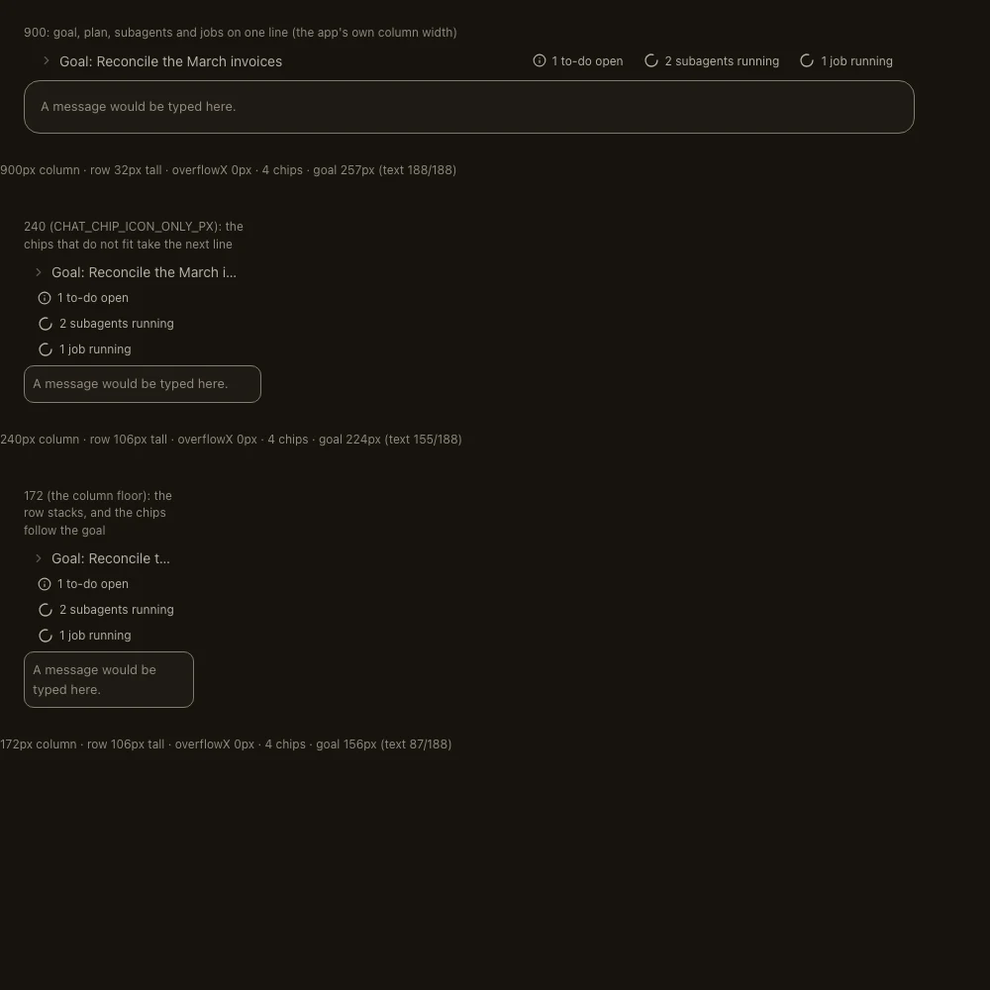
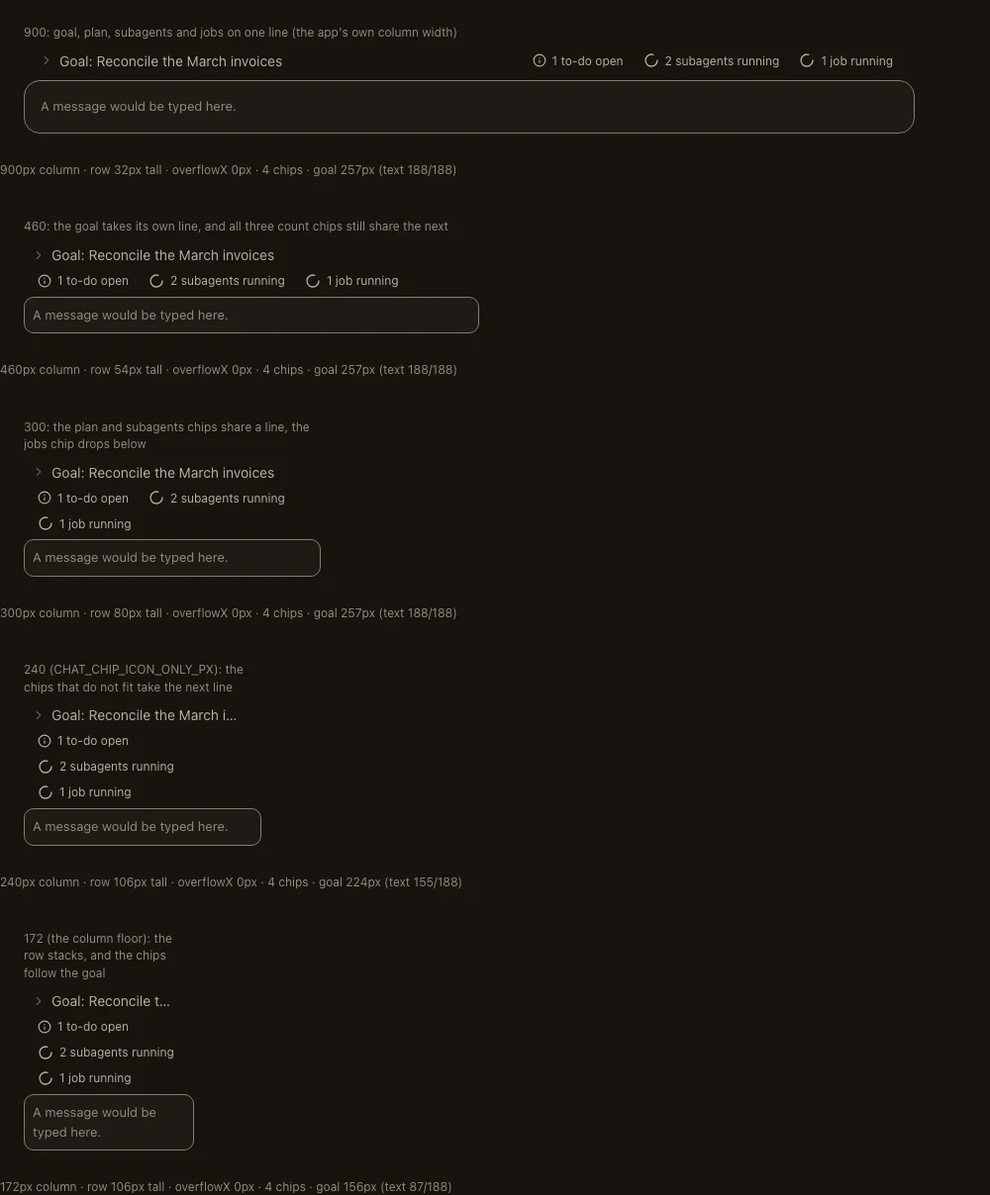
fix(composer): state the open total with the family's word when the set is mixed
Round 2's remediation from the design stream (agent review round 2's D6, plus its
two record nits).

- D6 (MAJOR): the chip took its COUNT over every open row and its WORD from the
  busiest one, so a fan-out above the fifteen-job pool - the ordinary shape of a
  large delegation, `DEFAULT_MAX_RUNNING_JOBS = 15` in `harness/jobs.py` - read
  `40 subagents running` while the pane's own tally two inches away read
  `15 running · 25 queued · 17 interrupted · 5 done`: one word, two numbers, for
  the same rows, on the app's most-read status line, and the only sentence a screen
  reader got (the mark is `aria-hidden`). The count stays whole; the WORD is now the
  state's only when the set is UNIFORM, and the family's when it is mixed:
  `activityTally` derives `markCount` (the open rows in the mark's own state) with
  `count` and `mark`, `tallyWord` picks `open` unless every open row shares the
  mark's state, and `busiestClause` puts the busiest state where length costs
  nothing - the chip's accessible name and the tooltip: `40 subagents open`,
  `Open the subagents in run details — 40 subagents open, 15 running`. The mixed
  string is NARROWER than the state word it replaces, so the row pays nothing for
  it. Both clauses inherit it, so the jobs chip follows the same rule.
- D6's evidence: the story set gains `activity-mixed/` - the fan-out QA measured
  live, the same rule through the jobs list, and a uniform set as the CONTROL - with
[…]

diff --git a/src/renderer/src/features/chat/components/run-details/run-detail-model.ts b/src/renderer/src/features/chat/components/run-details/run-detail-model.ts
@@ -744,6 +744,22 @@ export function activityMark(
 export type ActivityTally = {
 	count: number;
 	mark: OpenChildStatus;
+	/**
+	 * How many of the open rows are in `mark`'s own state.
+	 *
+	 * Carried because `count` alone cannot say whether the set is UNIFORM, and the
+	 * sentence needs to: `mark` is the busiest state (`activityMark`'s ladder), so
+	 * with `DEFAULT_MAX_RUNNING_JOBS = 15` (`harness/jobs.py:36`) any fan-out above
+	 * fifteen children spends most of its life with rows parked behind the running
+	 * ones, and a clause that puts the busiest state's word beside the OPEN total
+	 * then claims work that is not happening (design round 2, D6: the chip read
+	 * `40 subagents running` while the pane two inches away read `15 running ·
+	 * 25 queued · 17 interrupted · 5 done`).
+	 *
+	 * `markCount === count` is the uniform case and the only one that may use the
+	 * state word; `markCount < count` is the mixed case, whose word is the family's.
+	 */
+	markCount: number;
 };
 
 export function activityTally(
@@ -751,7 +767,12 @@ export function activityTally(
 ): ActivityTally | null {
 	const open = rows.filter(isOpenRow);
 	const mark = activityMark(rows);
-	return mark === null ? null : { count: open.length, mark };
+	if (mark === null) return null;
+	return {
+		count: open.length,
+		mark,
+		markCount: open.filter((row) => row.status === mark).length,
+	};
 }
 
 /* ------------------------------------------------------------------ */
@@ -2669,8 +2690,37 @@ const stateWord = (state: OpenChildStatus): string => CHILD_STATE_WORD[state];
  * It takes the TALLY and not a count (see `activityTally`): the state in the
  * sentence IS the state of the mark, because there is no other way to call it.
  */
+/**
+ * The word a clause uses for the set: the STATE's word when every open row is in
+ * that state, the FAMILY's word when they are not.
+ *
+ * `open` is the model's own vocabulary (`openChildren`, `openJobs`,
+ * `OPEN_CHILD_STATUSES`), and it is the word the plan chip one slot to the left
+ * already teaches (`1 to-do open`). It is true of all three open states by
+ * construction, so the mixed case cannot drift back into a claim the rows deny
+ * (design round 2, D6). It is also NARROWER than the state word it replaces, so it
+ * cannot cost the row a line.
+ */
+const tallyWord = (tally: ActivityTally): string =>
+	tally.markCount === tally.count ? stateWord(tally.mark) : "open";
+
+/**
+ * The busiest state, for the strings that have room for it: the chip's accessible
+ * name and its tooltip, one line above it in the same column.
+ *
+ * The ON-SURFACE text stays the narrow one, and the mark itself is `aria-hidden`
+ * by the roster's contract — so without this the only reading a screen reader gets
+ * of a mixed set would be the family word, which names the count and not the work
+ * that is running. It is the same derivation over the same tally as the clause, so
+ * the two strings cannot state different numbers.
+ */
+export const busiestClause = (tally: ActivityTally): string =>
+	tally.markCount === tally.count
+		? ""
+		: `, ${tally.markCount} ${stateWord(tally.mark)}`;
+
 export const childClause = (tally: ActivityTally): string =>
-	`${plural(tally.count, "subagent")} ${stateWord(tally.mark)}`;
+	`${plural(tally.count, "subagent")} ${tallyWord(tally)}`;
 
 /**
  * The tool-job clause: `1 job running`, `3 jobs running`.
@@ -2689,7 +2739,7 @@ export const childClause = (tally: ActivityTally): string =>
  * avoid. If a future `JobType` can be parked, the clause already says so.
  */
 export const jobClause = (tally: ActivityTally): string =>
-	`${plural(tally.count, "job")} ${stateWord(tally.mark)}`;
+	`${plural(tally.count, "job")} ${tallyWord(tally)}`;
 
 /**
  * The two counts that decide the plan's clause: how much is still open, and how
@@ -2865,7 +2915,7 @@ export function runDetailTriggerLabel(
 	 * Guarded on `openTodos`, so the trigger's name is UNCHANGED by the settled
 	 * spellings above: the trigger answers "is anything asking for something right
 	 * now?" (`hasRunDetails`' own rule, a few hundred lines up), and a settled
-	 * plan is not asking for anything - its outcome is the composer chip's to
+	 * plan is not asking for anything — its outcome is the composer chip's to
 	 * state. Passing the whole `details` is what keeps the two surfaces one
 	 * spelling if that ever changes; keeping the guard is the choice to leave
 	 * this path exactly as it was.

diff --git a/src/renderer/src/features/chat/components/composer-status-row.stories.tsx b/src/renderer/src/features/chat/components/composer-status-row.stories.tsx
@@ -582,6 +582,90 @@ export const ActivityChips: Story = {
 };
 
 /**
+ * A MIXED open set: fifteen children at work and twenty-five parked behind them.
+ *
+ * This is the ORDINARY shape of a large delegation rather than an edge —
+ * `DEFAULT_MAX_RUNNING_JOBS = 15` (`harness/jobs.py:36`) is the pool subagents and
+ * backgrounded shells share — and it is the state design review round 2's D6 was
+ * found in: with the count taken over every open row and the word taken from the
+ * busiest one, the chip read `40 subagents running` while the pane's own tally two
+ * inches away read `15 running · 25 queued · 17 interrupted · 5 done`. The wire
+ * shape here is that snapshot: 15 `running`, 25 `queued`, 17 settled rows of two
+ * kinds (which the gate must NOT count) and 5 children that finished.
+ */
+const FAN_OUT = detailsWith([
+	...Array.from({ length: 15 }, (_, i) =>
+		wireJob(`run-${i}`, "task", "running", `Child ${i}`),
+	),
+	...Array.from({ length: 25 }, (_, i) =>
+		wireJob(`queue-${i}`, "task", "running", `Child ${15 + i}`, true),
+	),
+	...Array.from({ length: 17 }, (_, i) =>
+		wireJob(`stop-${i}`, "task", "interrupted", `Child ${40 + i}`),
+	),
+	...Array.from({ length: 5 }, (_, i) =>
+		wireJob(`done-${i}`, "task", "done", `Child ${57 + i}`),
+	),
+]);
+
+/** The same rule through the jobs list: one parked tool row beside two live ones. */
+const MIXED_JOBS = detailsWith([
+	wireJob("s1", "bash", "running", "bash: sleep 150 ; echo child-done"),
+	wireJob("s2", "bash", "running", "bash: pnpm build"),
+	wireJob("s3", "bash", "running", "bash: pnpm test", true),
+]);
+
+/** The control: a uniform set, where the state word is still the right one. */
+const UNIFORM_QUEUED = detailsWith([
+	...Array.from({ length: 25 }, (_, i) =>
+		wireJob(`queue-${i}`, "task", "running", `Child ${i}`, true),
+	),
+]);
+
+/**
+ * A mixed open set, and the uniform control beside it.
+ *
+ * Design review round 2's D6, in one story: the count is every open row and the
+ * WORD has to survive that, so a mixed set states the family's word
+ * (`40 subagents open`) and a uniform one keeps the state's (`25 subagents
+ * queued`). The busiest state does not vanish — it is in the chip's accessible
+ * name and tooltip, which is the only reading assistive tech gets, because the
+ * mark is `aria-hidden` by the roster's contract.
+ *
+ * Each band prints its own numbers (`RowFacts`), because the claim is about what
+ * that sentence does to the row: the mixed wording is NARROWER than the state word
+ * it replaces (`40 subagents open` against `40 subagents running`), so it cannot
+ * cost the row a line, and the frame is what says so.
+ */
+export const ActivityMixed: Story = {
+	render: () => (
+		<div className={cn("flex flex-col gap-4")}>
+			<RowFacts>
+				<Band
+					label="Forty open, fifteen of them running: the chip states the total with the family's word"
+					frontend={frontend(SHORT_GOAL)}
+					runDetails={FAN_OUT}
+				/>
+			</RowFacts>
+			<RowFacts>
+				<Band
+					label="The same rule on the jobs list: two live tool rows beside a parked one"
+					frontend={frontend(SHORT_GOAL)}
+					runDetails={MIXED_JOBS}
+				/>
+			</RowFacts>
+			<RowFacts>
+				<Band
+					label="The control — a uniform set, where the state word is still the right one"
+					frontend={frontend(SHORT_GOAL)}
+					runDetails={UNIFORM_QUEUED}
+				/>
+			</RowFacts>
+		</div>
+	),
+};
+
+/**
  * The stacked arrangement at the 240px boundary: the row's edges where they
  * actually differ, and where three chips once tore away from the goal.
  *
@@ -655,6 +739,22 @@ export const ActivityWidths: Story = {
 				<Band
 					width={900}
 					label="900: goal, plan, subagents and jobs on one line (the app's own column width)"
+					frontend={frontend(SHORT_GOAL)}
+					runDetails={BOTH_ACTIVITY}
+				/>
+			</RowFacts>
+			<RowFacts>
+				<Band
+					width={460}
+					label="460: the goal takes its own line, and all three count chips still share the next"
+					frontend={frontend(SHORT_GOAL)}
+					runDetails={BOTH_ACTIVITY}
+				/>
+			</RowFacts>
+			<RowFacts>
+				<Band
+					width={300}
+					label="300: the plan and subagents chips share a line, the jobs chip drops below"
 					frontend={frontend(SHORT_GOAL)}
 					runDetails={BOTH_ACTIVITY}
 				/>

diff --git a/src/renderer/src/features/chat/components/composer-status-row.tsx b/src/renderer/src/features/chat/components/composer-status-row.tsx
@@ -75,6 +75,7 @@ import {
 	LABEL_SEAM,
 	type RunDetails,
 	activityTally,
+	busiestClause,
 	childClause,
 	jobClause,
 	todoClause,
@@ -177,6 +178,13 @@ export const goalDisclosureLabel = (goal: string, expanded: boolean): string =>
  * The count is `todoClause`'s spelling, from the same function the header
  * trigger's tooltip uses, so the two surfaces a user reads in one glance cannot
  * state the number two ways.
+ *
+ * It takes the COUNTS rather than the numeral for the reason that function's own
+ * docblock records: the settled copy is not a function of the open count alone,
+ * and a chip reading `All to-dos resolved` while its accessible name announced
+ * `0 to-dos open` is exactly the drift this pattern exists to make
+ * unrepresentable — the label cannot be built from a number this component was
+ * never told whether anything was dropped beside.
  */
 export const planChipLabel = (
 	details: Pick<RunDetails, "openTodos" | "droppedTodos">,
@@ -194,10 +202,10 @@ export const planChipLabel = (
  * neither can state a state the glyph denies (design round 1, D1).
  */
 export const subagentChipLabel = (tally: ActivityTally): string =>
-	`${SUBAGENT_ACTION}${LABEL_SEAM}${childClause(tally)}`;
+	`${SUBAGENT_ACTION}${LABEL_SEAM}${childClause(tally)}${busiestClause(tally)}`;
 
 export const jobChipLabel = (tally: ActivityTally): string =>
-	`${JOB_ACTION}${LABEL_SEAM}${jobClause(tally)}`;
+	`${JOB_ACTION}${LABEL_SEAM}${jobClause(tally)}${busiestClause(tally)}`;
 
 /**
  * Whether the row owes the composer its focus back.
@@ -290,18 +298,21 @@ export const ComposerStatusRow = ({
 	const goal = frontend?.goal?.trim() ?? "";
 	const showGoal = goal.length > 0;
 	/*
-	 * A FINISHED plan still shows: `0 to-dos open` is the honest reading of a
-	 * complete plan, and it keeps the row's height from changing when the last
-	 * item closes.
+	 * A FINISHED plan still shows, in the model's settled spelling
+	 * (`All to-dos resolved`, or `All to-dos closed` where anything was dropped):
+	 * the row's height must not change when the last item closes, and a plan that
+	 * ended is a fact worth keeping on screen. See `todoClause` for why the two
+	 * settled states are two words rather than one.
 	 *
 	 * The gate is the ITEM count and not the phase count, and the difference is a
 	 * real state rather than a hypothetical. `RunDetails.todos` is the PHASE list,
 	 * and the model decodes a phase record with no items to a phase with no items —
 	 * so `todos.length > 0` calls a plan that arrived as one empty named phase a
-	 * plan, and the chip would print `0 to-dos open` for a session that has no
-	 * to-dos at all, which reads as a finished plan. `totalTodos` is the item count
-	 * over the whole wire list: it is zero only when there is genuinely nothing to
-	 * be in the middle of.
+	 * plan, and the chip would state a FINISHED plan over a plan that has no items at
+	 * all (`All to-dos resolved`, `todoClause`'s settled clause, since this follow-up;
+	 * `0 to-dos open` when this gate was first argued, which read as a finished plan
+	 * too). `totalTodos` is the item count over the whole wire list: it is zero only
+	 * when there is genuinely nothing to be in the middle of.
 	 */
 	const showPlan = Boolean(runDetails && runDetails.totalTodos > 0);
 

diff --git a/src/renderer/src/features/chat/components/run-details/index.ts b/src/renderer/src/features/chat/components/run-details/index.ts
@@ -12,6 +12,7 @@ export {
 	acknowledgeMcpWhileShown,
 	acknowledgeWhileOpen,
 	BRIEF_PREVIEW_LINES,
+	busiestClause,
 	childClause,
 	childStateLabel,
 	deriveMcpServers,

diff --git a/docs/evidence/chat-composer-status-row/README.md b/docs/evidence/chat-composer-status-row/README.md
@@ -70,7 +70,8 @@ legible; it contains no controls, and nothing in these frames is a claim about i
 | `expanded/` | The collapsed row above its own expanded form at a 900px column, the second opened by CLICKING the real trigger. The vertical cost is the difference between the two bands; the body's cap is the whole-line ceiling `CAPPED_BLOCK` sets (120px, six lines at `leading-5`), which the frames show ending on a complete line rather than through a seventh line's glyphs. |
 | `column-floor/` | The same pair at a **172px** column — the width the app's chat column actually reaches with the canvas open (QA round 1, measured on the built app; this set was captured at 220px before that correction, which meant it pinned a large-view inset at a width where the product renders the small-view step). The story derives `isSmallView` from its own band width, so the row takes `px-2 pb-1` and the stand-in box `p-2` exactly as the app does. Collapsed, the row stacks with its label visible; expanded, the body takes the row's own width less the primitive's 20px indent. |
 | `activity-chips/` | The two activity chips (`docs/composer-activity-chips.md`), one band per state of the count gate: both lists in flight (four chips), the jobs chip alone at the row's start (no goal, no plan — so the first-chip rule falls to it), a PARKED child (open, so the chip renders, and nothing spins because nothing is running), and settled work, where the rows are still on the wire and **no chip is drawn for them**. Read the last band against the first: that pair is the gate. |
-| `activity-widths/` | The width story, and the only frame that carries its own numbers. Three bands — 900px (the app's column), 240px (`CHAT_CHIP_ICON_ONLY_PX`) and the 172px floor — each MEASURING the row it contains after `document.fonts.ready` and printing `Npx column · row Npx tall · overflowX Npx · N chips` beneath it. Measured at this commit: **900 → 32px tall, overflowX 0, 4 chips; 240 → 106px tall, 0, 4; 172 → 106px tall, 0, 4.** The arrangement is visible in the picture (at 240 and at 172 the goal keeps the line and the three counts share the lines below it as one left-aligned group) and `overflowX 0` at all three is the property, not a hope: the group shrinks and wraps INSIDE the column rather than painting past it. **240 read 80px in round 1 and reads 106px now, which is the wrap fix and not a regression**: the old arrangement put the goal on the first line with ONE count chip pushed to the right margin and the other two on a left column below, so it was 26px shorter and the goal was truncated to `Goal: Rec…`; today the goal has the line to itself (`Goal: Reconcile the March i…`) and the counts are one column under it (`docs/composer-activity-chips.md` § 7, design review round 1, D2). |
+| `activity-mixed/` | **The state no committed frame showed until design review round 2 (D6), and the ordinary one for a large delegation.** Three bands on the shipped row: the fan-out QA measured live (15 children running, 25 parked behind the fifteen-job pool, 17 settled rows the gate must NOT count, 5 finished — 40 open in all), the same rule through the jobs list (two live tool rows beside a parked one), and a uniform set as the control. The chip states the count whole with the FAMILY's word when the set is mixed — **`40 subagents open`**, accessible name `Open the subagents in run details — 40 subagents open, 15 running` — because the state word beside the open total claimed work that was not happening, and the pane's own tally two inches away read `15 running · 25 queued · 17 interrupted · 5 done` (`docs/composer-activity-chips.md` § 2). Band 2 inherits it through `jobClause` (`3 jobs open`, `… — 3 jobs open, 2 running`) and band 3 is the control, unchanged: `25 subagents queued`. Each band prints its own numbers, and the row stays **32px tall with `overflowX 0`** in all three — the mixed wording is narrower than the state word it replaces, so the fix costs the row nothing. |
+| `activity-widths/` | The width story, and the only frame that carries its own numbers. **Five bands** — 900px (the app's column), 460px and 300px (the two steps of the wrap regime, added by design review round 2's N2), 240px (`CHAT_CHIP_ICON_ONLY_PX`) and the 172px floor — each MEASURING the row it contains after `document.fonts.ready` and printing `Npx column · row Npx tall · overflowX Npx · N chips` beneath it. Measured at this commit: **900 → 32px tall, overflowX 0, 4 chips; 460 → 54px, 0, 4; 300 → 80px, 0, 4; 240 → 106px, 0, 4; 172 → 106px, 0, 4.** The three heights of the wrap regime are the point of the two new bands: the row is 54px once the goal takes its own line, 80px while the plan and subagents chips still share one, and 106px from about 265px down, where the 150px subagents chip and the 107px jobs chip stop fitting together. The arrangement is visible in the picture (at 240 and at 172 the goal keeps the line and the three counts share the lines below it as one left-aligned group) and `overflowX 0` at all three is the property, not a hope: the group shrinks and wraps INSIDE the column rather than painting past it. **240 read 80px in round 1 and reads 106px now, which is the wrap fix and not a regression**: the old arrangement put the goal on the first line with ONE count chip pushed to the right margin and the other two on a left column below, so it was 26px shorter and the goal was truncated to `Goal: Rec…`; today the goal has the line to itself (`Goal: Reconcile the March i…`) and the counts are one column under it (`docs/composer-activity-chips.md` § 7, design review round 1, D2). |
 | `activity-stacked/` | The 240px arrangement on its own, with its own numbers, and the two browser states a story cannot set (round 1's D5): `activity-stacked-hovered/` puts a real pointer on the GOAL's trigger and `activity-stacked-chip-hovered/` puts it on the jobs CHIP, which is the pair that shows the row's edge rule — the goal is the row's leading chip and its ground starts at the row's own edge (`-ml-1.5`), where the stacked chips' grounds start at theirs. `activity-stacked-focused/` walks the real `Tab` key to the subagents chip (`{ tabTo }`), so the ring in the frame is a genuine `:focus-visible` rather than a class; its tooltip is open in the picture, which is the state focus actually produces, and it covers part of the goal line above. |
 | `activity-motion-1/`, `activity-motion-2/` | **The spin, photographed at a HELD phase.** The pair is the same story, theme and rig, half a turn apart: `activity-motion-1` holds the shipped `animate-spin` at `0ms` of its own 1s cycle and `activity-motion-2` at `500ms`, through the rig's `{ liveMotion, phaseMs }` tuple, whose hold is now applied — and asserted — **at the shutter**, not when the story's styles are first overridden (before Storybook has mounted anything, a cold server served an empty document and the hold matched nothing). **What the PAGE differs by, measured losslessly:** the same two phases captured at `format: "png"` instead of webp differ in **220 (dark) / 228 (light) pixels, every one of them inside the two marks' boxes (x648-664 and x807-823, y53-67) and none outside**. **What the committed WebP pair differs by:** 7,917 (dark) / 1,850 (light) pixels, of which only **193 / 168 exceed 8/255** and **147 / 148 of those sit in those same two boxes** (the rest are isolated singles on glyph edges); the remaining **7,724 / 1,682** are an achromatic ±1-2/255 field across the row's glyphs, i.e. the lossy ENCODER's own response to a differing input rather than the page — which is exactly why the lossless pair has no field at all. Round 3's M1' is that this row (and the manifest record and the commit message) claimed the whole 7,917/1,850 sat in two 14x14 boxes, which hold 392 pixels between them. **And the pair is re-derivable:** three consecutive captures of all four frames came back byte-identical (`cmp`), and capturing the two tuples at the SAME phase yields two byte-identical frames (AE 0), so the pair carries the phase and nothing else. Round 2's M1 is why any of this is measured: the rule this option once used selected `.animate-spin`, the token the mark does NOT carry (`motion-safe:animate-spin` is), so it matched nothing and the pair was sampled. Read the limits with it: a Storybook fixture rather than a live app, and the encoder's field IS in the committed files — a reader comparing those two byte-wise will see more than the marks. |
 | `activity-chips-reduced-motion/` | The same four states with `prefers-reduced-motion: reduce`. **Say plainly what this frame is and is not**, which is what round 1's D3 asked for: it is NOT a comparison and proves NOTHING about the animation, because the rig injects `animation: none !important` before every shutter, so the animation is off in both frames. **How far the identity goes differs by theme, and round 2's n1 is that this sentence read as a property of the pair:** in dark the two frames ARE byte-identical (md5 `f6553f04140aa3558a41157157356ce2`, 23,094 bytes each), while in light 14,788 pixels differ — every one of them in rows 96-671, i.e. the composer stand-in BELOW the strip, at no more than 14/255 per channel, with rows 40-90 (the chip band this row is about) byte-identical in both themes. What it is worth is the one claim a still of that state can carry: with the reduced-motion media query active the mark renders, lands on a VISIBLE end state (the page's reduced-motion block CAPS durations rather than cancelling anything, so an element must never end invisible) and its shape still distinguishes running from parked. The spin itself is pinned as a class string in `scripts/composer-tabs.test.mjs` and photographed — at a held phase, re-run to byte-identity — in `activity-motion-1/2` above. |

diff --git a/docs/composer-activity-chips.md b/docs/composer-activity-chips.md
@@ -85,6 +85,34 @@ state by construction, so the two cannot drift back apart. The roster's own
 `CHILD_STATE_WORD` supplies the word (`running` / `queued` / `paused`), and
 `todoClause` is untouched — to-dos have one open state.
 
+**...and the WORD depends on whether the set is uniform (design review round 2,
+D6).** The count is every OPEN row and `mark` is the BUSIEST one, so putting the
+mark's word beside the open total claims work that is not happening whenever rows
+are parked behind a running few — and that is the ordinary shape of a large
+delegation, not an edge: `DEFAULT_MAX_RUNNING_JOBS = 15` (`harness/jobs.py:36`,
+the pool subagents and backgrounded shells share) parks everything a fan-out
+cannot run, so QA's live capture read `40 subagents running` on the chip while the
+pane's own tally read `15 running · 25 queued · 17 interrupted · 5 done` on the
+same screen — one word, two numbers, for the same rows, two inches apart. The rule
+now is:
+
+| the open set | the clause (chip's visible text, trigger's tooltip) | the chip's accessible name |
+|---|---|---|
+| uniform — `markCount === count` | `1 subagent running`, `25 subagents queued`: the STATE's word, unchanged | the same string |
+| mixed — `markCount < count` | `40 subagents open`: the FAMILY's word | `… — 40 subagents open, 15 running` |
+
+`open` is the model's own vocabulary (`openChildren`, `openJobs`,
+`OPEN_CHILD_STATUSES`) and the word the plan chip one slot to the left already
+teaches (`1 to-do open`); it is true of all three open states by construction, so
+the mixed case cannot drift back into a claim the rows deny. The busiest state does
+not vanish — it moves to the strings with room for it, because the mark is
+`aria-hidden` and the sentence is otherwise the whole message a screen reader gets.
+The mixed string is also NARROWER than the state word it replaces, so it cannot
+cost the row a line (photographed: `activity-mixed/`, three bands — the fan-out, the
+same rule through the jobs list, and a uniform set as the control). `tally.markCount`
+is derived in the same `activityTally` call as `count` and `mark`, so no reader
+re-derives it and the two strings cannot state different numbers.
+
 **The mark is the roster's, not a new one.** `SubagentStateIcon`
 (`run-detail-row-parts.tsx:74-96`) already encodes the whole contract — one mark
 per state, `motion-safe:animate-spin` for `running` and nothing else, shape as the
@@ -265,13 +293,25 @@ which prints its own numbers into the picture, after `document.fonts.ready`):
 
 | Column | Row height | `overflowX` | Chips |
 |---|---|---|---|
-| 900px | 32px | 0 | 4 |
-| 240px (`CHAT_CHIP_ICON_ONLY_PX`) | 106px | 0 | 4 |
-| 172px (the floor) | 106px | 0 | 4 |
+| 900px | 32px | 0 | 4, one line |
+| 460px | 54px | 0 | 4: goal, then all three |
+| 300px | 80px | 0 | 4: goal / plan + subagents / jobs |
+| 240px (`CHAT_CHIP_ICON_ONLY_PX`) | 106px | 0 | 4: one per line |
+| 172px (the floor) | 106px | 0 | 4: one per line, narrower goal |
 
-At 240px the three count chips take the lines under the goal; at the floor the
-row stacks, the goal first and the chips under it. The heights are the cost, and
-§ 3's gate is what keeps them from being paid on a session with nothing running.
+**Three heights, not two, and the band in between is the one the operator hits.**
+This table printed 900 and 240/172 only until design review round 2 (N2): the group
+packs greedily as the column narrows, so the wrap regime has its own steps — 54px
+once the goal takes its own line, 80px when the jobs chip drops below the plan and
+subagents pair, 106px from about 265px down, where the 150px subagents chip and the
+107px jobs chip stop fitting on one line together. The 460px and 300px bands are
+photographed in `activity-widths/` and print their own numbers, which is where the
+54px and 80px above are read from; the same numbers were measured independently on
+this head with QA round 2's rig extended to those widths, reproducing 900/240/172
+exactly (`32/106/106px`, `overflowX` 0) before adding them. At 240px the three
+count chips take the lines under the goal; at the floor the row stacks, the goal
+first and the chips under it. The heights are the cost, and § 3's gate is what
+keeps them from being paid on a session with nothing running.
 
 **The 240px height is 106px, and this table printed 80px until round 2 (m1).**
 The 80px was the pre-group arrangement's number — the goal sharing line 1 with one
@@ -298,10 +338,26 @@ is what makes the row wrap the WHOLE group under the goal instead of letting the
 two share a squeezed line — and 140px is the width at which the chip still says
 something (its chevron, `Goal:` and padding measure ~75px of fixed ink).
 
-The arrangement is photographed at three widths and in three browser states
-(`activity-widths/`, and `activity-stacked/` at 240px at rest, hovered and
-keyboard-focused, the last two through the rig's own input because `:hover` and
-`:focus-visible` are browser state a story cannot set).
+The arrangement is photographed at FIVE widths (`activity-widths/`) and in four
+browser states (`activity-stacked/` at 240px at rest, `activity-stacked-hovered/`
+with the pointer on the goal, `activity-stacked-chip-hovered/` with it on the jobs
+chip, and `activity-stacked-focused/` with a real Tab on the subagents chip — the
+last three through the rig's own input, because `:hover` and `:focus-visible` are
+browser state a story cannot set).
+
+**In the stacked column the goal's hover ground and a chip's start on two different
+left edges, and that is intended** (design review round 2, N1 — recorded with the
+numbers rather than fixed). Measured in the frames at 240px: the goal's wash spans
+x25→249 (224px, the goal item's own width) and the jobs chip's x32→138 (106px), the
+two box edges **7px apart**; the DOM says the same from the other side, the goal's
+item box at x=2 against the count chips' at x=8 in the same column (the story's
+frame carries a 10px column inset, which is why the pixels read 25/32 rather than
+2/8). The 6-7px is the `FIRST_CHIP` `-ml-1.5` cancelling padding on the FIRST chip,
+which is the goal — the INK columns agree (goal chevron 38, chips' marks 36/39),
+which is the doctrine that flag exists for. Two object kinds, two ground shapes: a
+full-width row wash on an item that yields, content-sized control pills beside it.
+A reader hovering down the stacked column sees the row's leading edge move by those
+6-7px, and only in that arrangement.
 
 ## 8. Colour, motion and the contrast contract
 
@@ -364,7 +420,8 @@ keyboard-focused, the last two through the rig's own input because `:hover` and
 | Frame set | What it is |
 |---|---|
 | `docs/evidence/chat-composer-status-row/activity-chips/` | The gate, per state: both lists in flight, jobs alone at the row's start, a parked child (Clock, nothing spinning), and settled work with no chip at all. |
-| `docs/evidence/chat-composer-status-row/activity-widths/` | The width story at 900 / 240 / 172, each band printing its own row height, `overflowX` and chip count into the picture. |
+| `docs/evidence/chat-composer-status-row/activity-mixed/` | The MIXED open set (design review round 2, D6): the fan-out QA measured live, the same rule through the jobs list, and a uniform set as the control — three bands printing their own numbers, on the ordinary shape of a large delegation. |
+| `docs/evidence/chat-composer-status-row/activity-widths/` | The width story at 900 / 460 / 300 / 240 / 172, each band printing its own row height, `overflowX` and chip count into the picture. |
 | `docs/evidence/chat-composer-status-row/activity-chips-reduced-motion/` | The same states with `prefers-reduced-motion: reduce`: the mark is a visible shape, not a paused animation. |
 | `docs/evidence/chat-run-panel/jobs-in-flight/`, `--jobs-only/` | The section: two running tool rows, a settled row on the wire and deliberately not drawn, and the jobs-alone pane. |
 | `docs/evidence/chat-run-panel/trigger-activity-dot/` | The blip: pane closed, a child running, the dot in `info`. |
